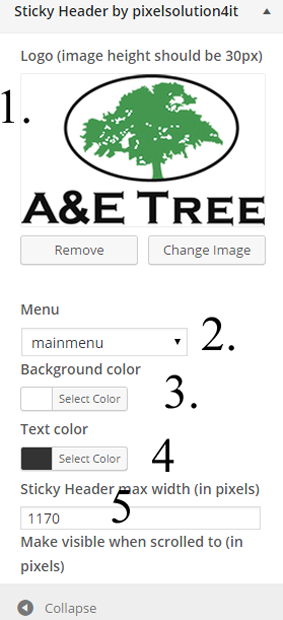
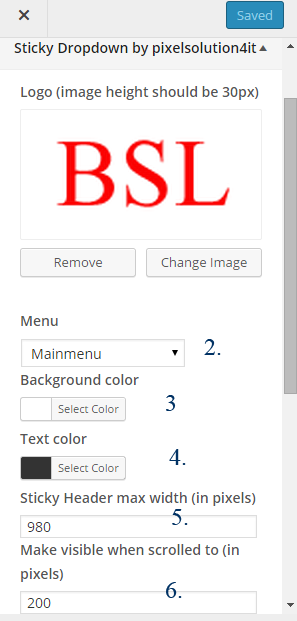
engrmostafijur
git-svn-id: https://plugins.svn.wordpress.org/sticky-dropdown/tags/1.4@1131470 b8457f37-d9ea-0310-8a92-e5e31aec5664

diff --git a/trunk/sticky-header.php b/trunk/sticky-header.php
@@ -1,21 +1,21 @@
 <?php
 /**
- * Sticky Dropdown menu plugin by pixelsolution4it.
+ * Sticky Header plugin by ThematoSoup.
  *
- * @package   Sticky_Dropdown
- * @author    engrmostafijur <engr.mostafijur@gmail.com>
- * @license   GPL-2.0+
- * @link      http://pixelsolution4it.com
- * @copyright 2014 engrmostafijur
+ * @package			Sticky_Dropdown
+ * @author			ThematoSoup <contact@thematosoup.com>
+ * @license			GPL-2.0+
+ * @link			http://thematosoup.com
+ * @copyright		2013 ThematoSoup
  *
  * @wordpress-plugin
- * Plugin Name:		Sticky Dropdown
- * Plugin URI:		http://pixelsolution4it.com
- * Description:		Adds Sticky Dropdown menu to your WordPress website
- * Version:			1.3
- * Author:			engrmostafijur
- * Author URI:		http://pixelsolution4it.com
- * Text Domain:		pixl-sticky-header
+ * Plugin Name:		Sticky Header
+ * Plugin URI:		http://thematosoup.com
+ * Description:		Adds sticky header to your WordPress website
+ * Version:			1.2
+ * Author:			ThematoSoup
+ * Author URI:		http://thematosoup.com
+ * Text Domain:		thsp-sticky-header
  * License:			GPL-2.0+
  * License URI:		http://www.gnu.org/licenses/gpl-2.0.txt
  * Domain Path:		/languages

diff --git a/trunk/class-sticky-header.php b/trunk/class-sticky-header.php
@@ -3,17 +3,17 @@
  * Sticky Header
  *
  * @package   Sticky_Dropdown
- * @author    pixelsolution4it <contact@pixelsolution4it.com>
+ * @author    ThematoSoup <contact@thematosoup.com>
  * @license   GPL-2.0+
- * @link      http://pixelsolution4it.com
- * @copyright 2014 pixelsolution4it
+ * @link      http://thematosoup.com
+ * @copyright 2013 ThematoSoup
  */
 
 /**
  * Plugin class.
  *
- * @package Sticky_Dropdown
- * @author  pixelsolution4it <contact@pixelsolution4it.com>
+ * @package Sticky_Header
+ * @author  ThematoSoup <contact@thematosoup.com>
  */
 class Sticky_Dropdown {
 

diff --git a/trunk/sticky-header-settings.php b/trunk/sticky-header-settings.php
@@ -3,10 +3,10 @@
  * Handles Customizer options.
  *
  * @package   Sticky_Dropdown
- * @author    engrmostafijur <engr.mostafijur@gmail.com>
+ * @author    ThematoSoup <contact@thematosoup.com>
  * @license   GPL-2.0+
- * @link      http://pixelsolution4it.com
- * @copyright 2014 engrmostafijur
+ * @link      http://thematosoup.com
+ * @copyright 2013 ThematoSoup
  */
 
 add_action( 'customize_register', 'pixl_Sticky_Dropdown_customize_register' );

diff --git a/trunk/uninstall.php b/trunk/uninstall.php
@@ -3,10 +3,10 @@
  * Fired when the plugin is uninstalled.
  *
  * @package   Sticky_Dropdown
- * @author    engrmostafijur <engr.mostafijur@gmail.com>
+ * @author    ThematoSoup <contact@thematosoup.com>
  * @license   GPL-2.0+
- * @link      http://pixelsolution4it.com
- * @copyright 2014 engrmostafijur
+ * @link      http://thematosoup.com
+ * @copyright 2013 ThematoSoup
  */
 
 // If uninstall, not called from WordPress, then exit

diff --git a/trunk/views/public.php b/trunk/views/public.php
@@ -6,10 +6,10 @@
  * frontend of the theme when the plugin is activated.
  *
  * @package   Sticky_Dropdown
- * @author    engrmostafijur <engr.mostafijur@gmail.com>
+ * @author    ThematoSoup <contact@thematosoup.com>
  * @license   GPL-2.0+
- * @link      http://pixelsolution4it.com
- * @copyright 2014 engrmostafijur
+ * @link      http://thematosoup.com
+ * @copyright 2013 ThematoSoup
  */
 
 // Get Sticky Header options
